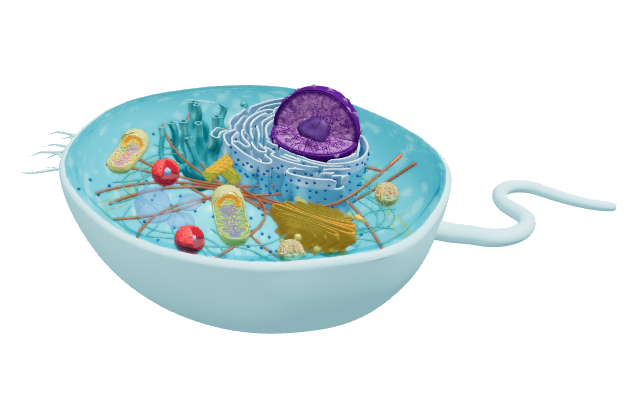
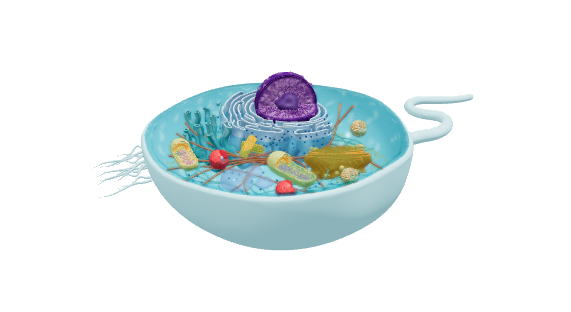
feat: implement logout confirmation dialog with styling and functionality

Changed region(s): [[0.0298, 0.2019, 0.9825, 0.8654]]

diff --git a/js/auth.js b/js/auth.js
@@ -127,10 +127,159 @@ window.ecoAuth = {
   },
 
   async signOut() {
-    await ecoSupabase.auth.signOut();
+    const { error } = await ecoSupabase.auth.signOut();
+    if (error) throw new Error(`Unable to sign out: ${error.message}`);
     window.location.replace('login.html');
   }
 };
+
+// =========================================
+// LOGOUT CONFIRMATION
+// Shared by every page that uses auth.js.
+// =========================================
+let logoutDialog;
+let logoutCancelButton;
+let logoutConfirmButton;
+let logoutError;
+let logoutTrigger;
+let logoutCloseTimer;
+let logoutInProgress = false;
+
+function ensureLogoutDialog() {
+  if (logoutDialog) return;
+
+  if (!document.querySelector('link[data-logout-confirmation-styles]')) {
+    const stylesheet = document.createElement('link');
+    stylesheet.rel = 'stylesheet';
+    stylesheet.href = 'css/logout-confirmation.css';
+    stylesheet.dataset.logoutConfirmationStyles = '';
+    document.head.append(stylesheet);
+  }
+
+  const dialog = document.createElement('div');
+  dialog.className = 'logout-confirmation';
+  dialog.hidden = true;
+  dialog.setAttribute('aria-hidden', 'true');
+  dialog.innerHTML = `
+    <section
+      class="logout-confirmation__modal"
+      role="dialog"
+      aria-modal="true"
+      aria-labelledby="logoutConfirmationTitle"
+      aria-describedby="logoutConfirmationDescription"
+      tabindex="-1"
+    >
+      <div class="logout-confirmation__icon" aria-hidden="true">
+        <i class="bi bi-box-arrow-right"></i>
+      </div>
+      <h2 class="logout-confirmation__title" id="logoutConfirmationTitle">
+        Are you sure you want to log out?
+      </h2>
+      <p class="logout-confirmation__description" id="logoutConfirmationDescription">
+        You will be signed out of your account. You can log back in anytime.
+      </p>
+      <p class="logout-confirmation__error" role="alert" hidden></p>
+      <div class="logout-confirmation__actions">
+        <button class="logout-confirmation__cancel" type="button">Cancel</button>
+        <button class="logout-confirmation__confirm" type="button">
+          <i class="bi bi-box-arrow-right" aria-hidden="true"></i>
+          <span>Log Out</span>
+        </button>
+      </div>
+    </section>
+  `;
+  document.body.append(dialog);
+
+  logoutDialog = dialog;
+  logoutCancelButton = dialog.querySelector('.logout-confirmation__cancel');
+  logoutConfirmButton = dialog.querySelector('.logout-confirmation__confirm');
+  logoutError = dialog.querySelector('.logout-confirmation__error');
+
+  function closeLogoutDialog() {
+    if (dialog.hidden || logoutInProgress) return;
+
+    dialog.classList.remove('is-open');
+    dialog.setAttribute('aria-hidden', 'true');
+    dialog.inert = true;
+    document.body.classList.remove('logout-confirmation-open');
+
+    logoutCloseTimer = window.setTimeout(() => {
+      dialog.hidden = true;
+      dialog.inert = false;
+      logoutTrigger?.focus();
+      logoutTrigger = null;
+    }, 180);
+  }
+
+  logoutCancelButton.addEventListener('click', closeLogoutDialog);
+  dialog.addEventListener('click', (event) => {
+    if (event.target === dialog) closeLogoutDialog();
+  });
+  dialog.addEventListener('keydown', (event) => {
+    if (event.key === 'Escape') {
+      event.preventDefault();
+      closeLogoutDialog();
+    } else if (event.key === 'Tab') {
+      event.preventDefault();
+      (event.shiftKey ? logoutConfirmButton : logoutCancelButton).focus();
+    }
+  });
+  logoutConfirmButton.addEventListener('click', async () => {
+    if (logoutInProgress) return;
+    logoutInProgress = true;
+    logoutConfirmButton.disabled = true;
+    logoutCancelButton.disabled = true;
+    logoutConfirmButton.querySelector('span').textContent = 'Logging out…';
+    logoutError.hidden = true;
+
+    try {
+      await window.ecoAuth.signOut();
+    } catch (error) {
+      console.error('Logout failed:', error);
+      logoutError.textContent = 'We could not log you out. Please try again.';
+      logoutError.hidden = false;
+      logoutConfirmButton.querySelector('span').textContent = 'Log Out';
+      logoutConfirmButton.disabled = false;
+      logoutCancelButton.disabled = false;
+      logoutInProgress = false;
+      logoutConfirmButton.focus();
+    }
+  });
+}
+
+function openLogoutDialog(trigger) {
+  if (logoutDialog.classList.contains('is-open')) {
+    logoutCancelButton.focus();
+    return;
+  }
+
+  window.clearTimeout(logoutCloseTimer);
+  logoutTrigger = trigger;
+  logoutError.hidden = true;
+  logoutError.textContent = '';
+  logoutConfirmButton.disabled = false;
+  logoutCancelButton.disabled = false;
+  logoutConfirmButton.querySelector('span').textContent = 'Log Out';
+  logoutDialog.inert = false;
+  logoutDialog.hidden = false;
+  logoutDialog.setAttribute('aria-hidden', 'false');
+  document.body.classList.add('logout-confirmation-open');
+  window.requestAnimationFrame(() => {
+    logoutDialog.classList.add('is-open');
+    logoutCancelButton.focus();
+  });
+}
+
+document.addEventListener('click', (event) => {
+  if (!(event.target instanceof Element)) return;
+  const trigger = event.target.closest('#logoutButton, #profileLogoutBtn');
+  if (!trigger) return;
+
+  event.preventDefault();
+  event.stopImmediatePropagation();
+  ensureLogoutDialog();
+  openLogoutDialog(trigger);
+}, true);
 
 // =========================================
 // RESPONSIVE SIDEBAR (MOBILE OFF-CANVAS)

diff --git a/css/logout-confirmation.css b/css/logout-confirmation.css
@@ -1,0 +1,144 @@
+.logout-confirmation[hidden] {
+  display: none;
+}
+
+.logout-confirmation {
+  position: fixed;
+  inset: 0;
+  z-index: 2000;
+  display: grid;
+  place-items: center;
+  padding: 1.25rem;
+  background: rgba(13, 27, 20, 0.58);
+  opacity: 0;
+  transition: opacity 180ms ease;
+}
+
+.logout-confirmation.is-open {
+  opacity: 1;
+}
+
+.logout-confirmation__modal {
+  width: min(100%, 28rem);
+  padding: clamp(1.5rem, 5vw, 2.25rem);
+  border: 1px solid rgba(27, 67, 50, 0.08);
+  border-radius: 18px;
+  background: #F8F4EF;
+  box-shadow: 0 24px 72px rgba(0, 0, 0, 0.24);
+  color: #1B4332;
+  text-align: center;
+  transform: translateY(12px) scale(0.98);
+  transition: transform 180ms ease;
+}
+
+.logout-confirmation.is-open .logout-confirmation__modal {
+  transform: translateY(0) scale(1);
+}
+
+.logout-confirmation__icon {
+  display: grid;
+  width: 3.75rem;
+  height: 3.75rem;
+  margin: 0 auto 1.25rem;
+  place-items: center;
+  border-radius: 50%;
+  background: #F5E2E2;
+  color: #B03030;
+  font-size: 1.65rem;
+}
+
+.logout-confirmation__title {
+  margin: 0;
+  color: #B03030;
+  font: 600 clamp(1.2rem, 4vw, 1.45rem)/1.35 'Poppins', system-ui, sans-serif;
+}
+
+.logout-confirmation__description {
+  max-width: 22rem;
+  margin: 0.75rem auto 0;
+  color: #56675D;
+  font: 400 0.95rem/1.6 'Poppins', system-ui, sans-serif;
+}
+
+.logout-confirmation__error {
+  margin: 1rem 0 0;
+  color: #A12622;
+  font: 500 0.875rem/1.5 'Poppins', system-ui, sans-serif;
+}
+
+.logout-confirmation__actions {
+  display: flex;
+  gap: 0.75rem;
+  margin-top: 1.75rem;
+}
+
+.logout-confirmation__actions button {
+  display: inline-flex;
+  min-height: 2.9rem;
+  flex: 1;
+  align-items: center;
+  justify-content: center;
+  gap: 0.5rem;
+  padding: 0.65rem 1rem;
+  border: 1px solid transparent;
+  border-radius: 10px;
+  cursor: pointer;
+  font: 500 0.925rem/1.2 'Poppins', system-ui, sans-serif;
+  transition: background-color 150ms ease, border-color 150ms ease, color 150ms ease, transform 150ms ease;
+}
+
+.logout-confirmation__actions button:hover:not(:disabled) {
+  transform: translateY(-1px);
+}
+
+.logout-confirmation__actions button:focus-visible {
+  outline: 3px solid #40916C;
+  outline-offset: 3px;
+}
+
+.logout-confirmation__actions button:disabled {
+  cursor: wait;
+  opacity: 0.72;
+}
+
+.logout-confirmation__cancel {
+  border-color: #D8DED9;
+  background: #fff;
+  color: #34483B;
+}
+
+.logout-confirmation__cancel:hover:not(:disabled) {
+  border-color: #AEBDB2;
+  background: #EEF2EE;
+}
+
+.logout-confirmation__confirm {
+  background: #B03030;
+  color: #fff;
+}
+
+.logout-confirmation__confirm:hover:not(:disabled) {
+  background: #8F2727;
+}
+
+body.logout-confirmation-open {
+  overflow: hidden;
+}
+
+@media (max-width: 480px) {
+  .logout-confirmation {
+    padding: 1rem;
+  }
+
+  .logout-confirmation__actions {
+    flex-direction: column-reverse;
+  }
+}
+
+@media (prefers-reduced-motion: reduce) {
+  .logout-confirmation,
+  .logout-confirmation__modal,
+  .logout-confirmation__actions button {
+    transition-duration: 0.01ms;
+  }
+}

diff --git a/css/profile.css b/css/profile.css
@@ -238,7 +238,8 @@ body {
 .profile-save-btn:disabled {
     background-color: var(--paper-line);
     border-color: var(--paper-line);
-    color: #4F5F55;
+    color: #ffffff;
+    opacity: 0.55;
     cursor: not-allowed;
 }
 
